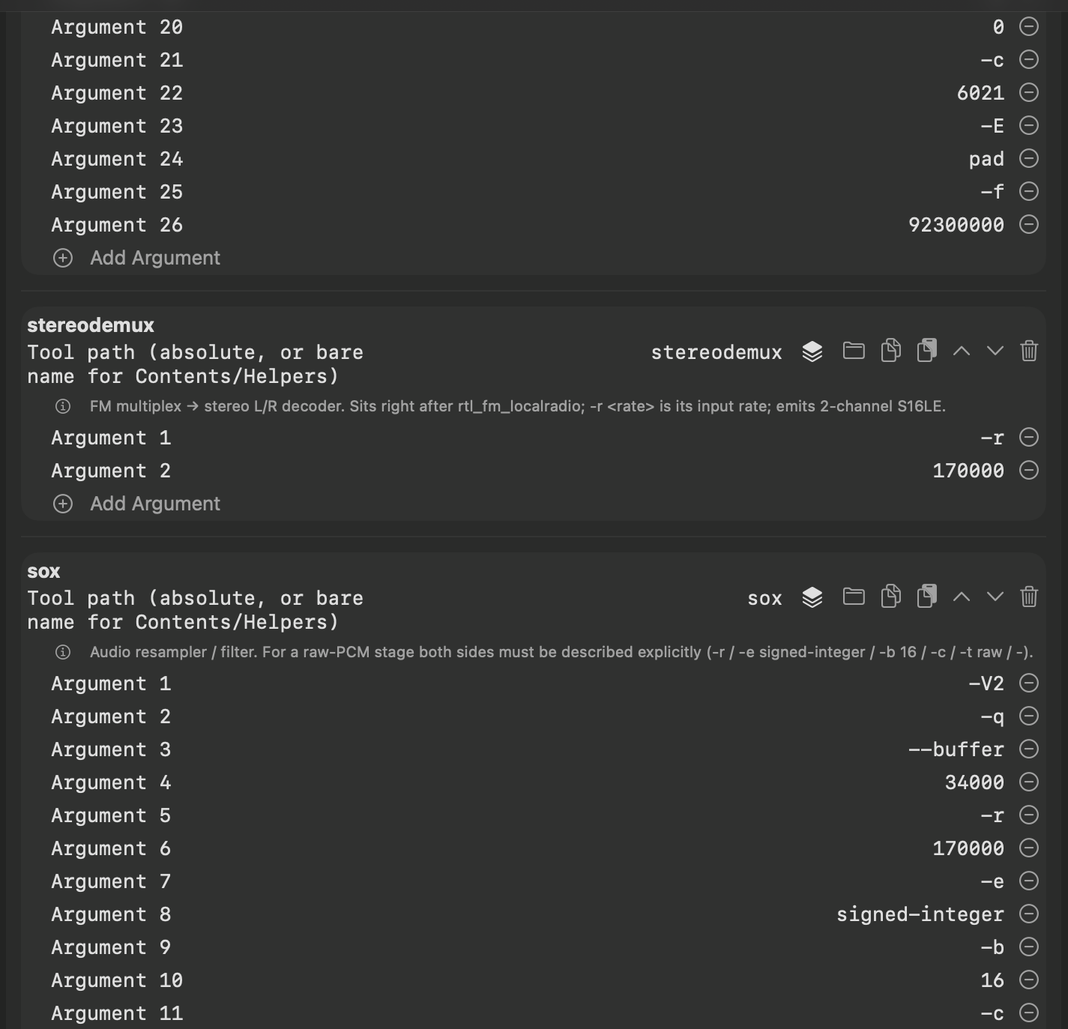
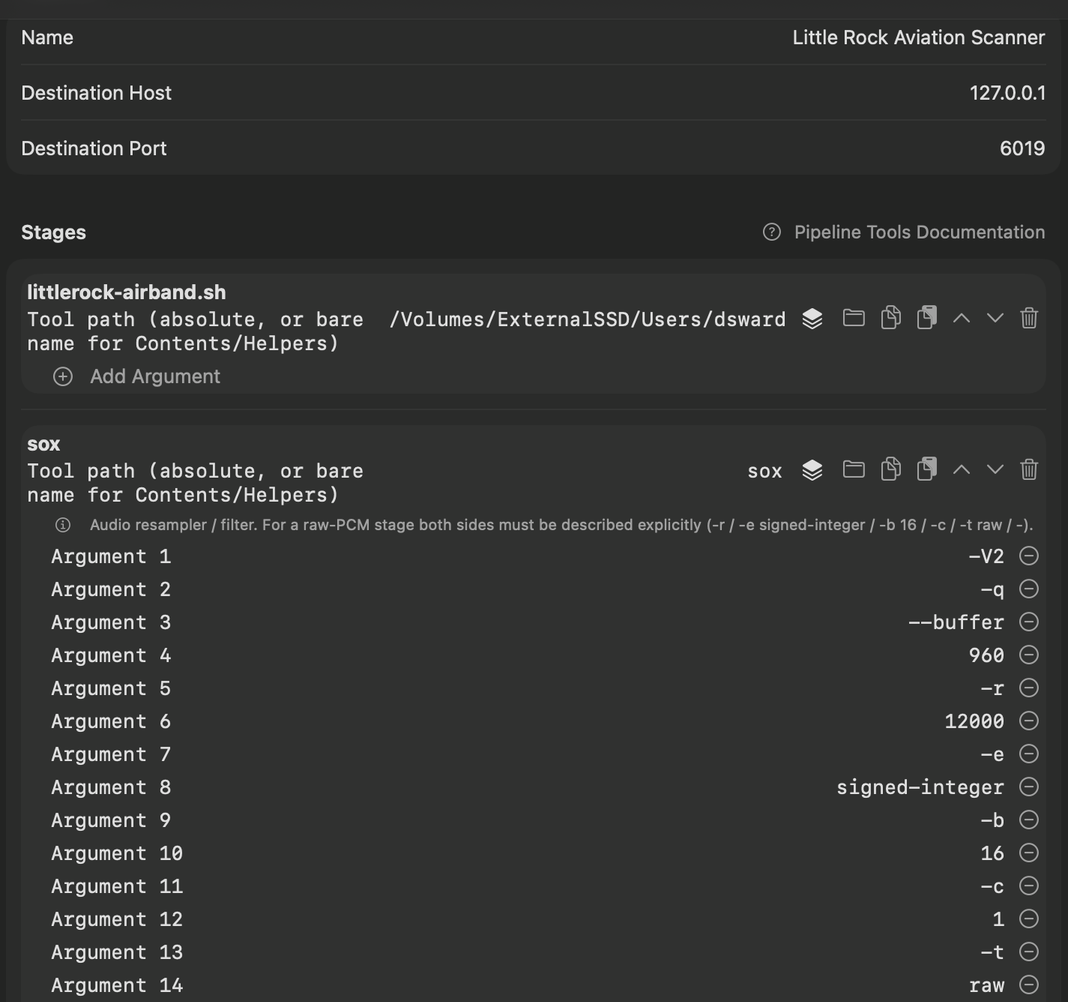
Shell-script project: airband example tested in ControlBooth; real pipeline screenshot

diff --git a/shell-script-source.html b/shell-script-source.html
@@ -59,7 +59,7 @@
       </p>
       <div class="grid">
         <div class="card"><h3>Your script</h3><p>Starts <code>rtl_fm</code> with your frequencies, gain and squelch, and prints 16-bit PCM audio on stdout. Everything else it says goes to stderr.</p></div>
-        <div class="card"><h3>sox</h3><p>Turns the script&rsquo;s mono audio into the 48&nbsp;kHz, 2-channel, 16-bit format the receiving end requires. ControlBooth doesn&rsquo;t convert for you.</p></div>
+        <div class="card"><h3>sox</h3><p>Turns the script&rsquo;s 12&nbsp;kHz mono audio into the 48&nbsp;kHz, 2-channel, 16-bit format the receiving end requires. ControlBooth doesn&rsquo;t convert for you.</p></div>
         <div class="card"><h3>PCMUDPSender</h3><p>Added automatically by ControlBooth. It sends the audio to AntennaHead (port 6019 by default), which streams it to listeners.</p></div>
       </div>
       <p class="note">
@@ -75,48 +75,53 @@
     <div class="wrap">
       <h2>Step 1: Write the script</h2>
       <p class="sub">
-        This one scans the seven NOAA Weather Radio channels
-        with a squelch, so it only produces sound when something is being
-        transmitted. Save it as, for example,
-        <code>~/bin/scan.sh</code>, and change the frequencies to the ones
-        you want.
+        This one scans five Little Rock Adams Field (KLIT) airband channels: tower, clearance delivery, approach/departure and ground
+        with a squelch, so it only produces sound when someone is
+        transmitting. Save it as, for example,
+        <code>~/bin/airband-scan.sh</code>, and change the frequencies to the ones
+        for your own airport.
       </p>
 <pre><code>#!/usr/bin/env bash
-# Squelched rtl_fm frequency scan. PCM16LE, 48 kHz, mono on stdout.
-# Messages go to stderr, because stdout is the audio.
+# Squelched rtl_fm airband (AM) scan of Little Rock Adams Field. PCM16LE, 12 kHz,
+# mono on stdout (a sox stage resamples it to 48 kHz stereo). Messages go to
+# stderr, because stdout is the audio.
 set -euo pipefail
 
 # ControlBooth is a GUI app, so it starts scripts with a short PATH.
 export PATH="/opt/local/bin:/opt/homebrew/bin:/usr/local/bin:$PATH"
 
-DEVICE=${DEVICE:-0}          # RTL-SDR index (see rtl_test)
-GAIN=${GAIN:-40}             # tuner gain in dB
-SQUELCH=${1:-${SQUELCH:-30}} # first argument wins; raise it if it opens on noise
-STATUS_PORT=${STATUS_PORT:-6021}
-FREQS=(${FREQS:-162.400M 162.425M 162.450M 162.475M 162.500M 162.525M 162.550M})
+DEVICE=${DEVICE:-0}                # RTL-SDR index (see rtl_test)
+GAIN=${GAIN:-30}                   # tuner gain in dB
+MODE=${MODE:-am}                   # airband voice is AM
+SQUELCH=${1:-${SQUELCH:-130}}      # first argument wins; raise it if it opens on noise
+STATUS_PORT=${STATUS_PORT:-6021}   # AntennaHead's Now Playing status port
+# Adams Field: Tower, Clearance Delivery, Approach/Departure, Ground, Approach/Departure
+FREQS=(${FREQS:-118.7M 118.95M 119.5M 121.9M 135.4M})
 
 RTL_FM=/Applications/ControlBooth.app/Contents/Helpers/rtl_fm_localradio
 
 ARGS=()
 for f in "${FREQS[@]}"; do ARGS+=(-f "$f"); done
 
-echo "Scanning ${FREQS[*]} on device $DEVICE, squelch $SQUELCH" >&2
+echo "Scanning ${FREQS[*]} on device $DEVICE, squelch $SQUELCH" &gt;&amp;2
 
 exec "$RTL_FM" -d "$DEVICE" "${ARGS[@]}" \
-     -M fm -s 12k -r 48k -E pad \
-     -g "$GAIN" -l "$SQUELCH" -c "$STATUS_PORT" -</code></pre>
+     -M "$MODE" -s 12k -E pad \
+     -g "$GAIN" -l "$SQUELCH" -c "$STATUS_PORT" -
+</code></pre>
       <p class="sub">Then make it executable:</p>
-<pre><code>chmod +x ~/bin/scan.sh</code></pre>
+<pre><code>chmod +x ~/bin/airband-scan.sh</code></pre>
       <div class="grid">
-        <div class="card"><h3>-f (repeat it)</h3><p>Each <code>-f</code> adds a frequency to the scan list. Use <code>-M am</code> instead of <code>-M fm</code> for AM signals such as airband.</p></div>
+        <div class="card"><h3>-f (repeat it)</h3><p>Each <code>-f</code> adds a frequency to the scan list. Use <code>MODE=fm</code> for FM channels such as NOAA Weather Radio (162.475&nbsp;MHz).</p></div>
         <div class="card"><h3>-l squelch</h3><p>The squelch level. Audio only comes out while the signal is stronger than this, which is what makes it a scanner.</p></div>
         <div class="card"><h3>-E pad</h3><p>While the squelch is closed, <code>rtl_fm</code> sends silence instead of nothing, so the pipeline keeps a steady flow of audio.</p></div>
         <div class="card"><h3>-c port</h3><p>Sends the current frequency and signal power to this UDP port. AntennaHead listens on 6021 by default, which is how Now Playing can show a live signal level beside the squelch.</p></div>
         <div class="card"><h3>-d device</h3><p>Which RTL-SDR to use, by index. With more than one radio plugged in, look up the one you want and pass its index.</p></div>
+        <div class="card"><h3>No -r here</h3><p><code>rtl_fm</code> has an <code>-r</code> option to resample its output, but in testing <code>rtl_fm_localradio</code> produced only silence with it at these narrow-band rates. The <code>sox</code> stage does the resampling instead.</p></div>
         <div class="card"><h3>The trailing -</h3><p>Tells <code>rtl_fm</code> to write the audio to stdout, where the next pipeline stage picks it up.</p></div>
       </div>
       <p class="note">
-        Test it in Terminal first: <code>~/bin/scan.sh | ffplay -f s16le -ar 48000 -ac 1 -nodisp -</code>
+        Test it in Terminal first: <code>~/bin/airband-scan.sh | ffplay -f s16le -ar 12000 -ac 1 -nodisp -</code>
         (ffplay comes with ffmpeg; any player that reads raw audio will do). If you can hear it there, it will work as a pipeline stage.
         If you can&rsquo;t, the error messages in Terminal will tell you why.
       </p>
@@ -134,17 +139,17 @@ exec "$RTL_FM" -d "$DEVICE" "${ARGS[@]}" \
       <table class="stages">
         <tr><th>Stage</th><th>Tool</th><th>Arguments (one per row)</th></tr>
         <tr><td>1</td><td><code>/Users/you/bin/scan.sh</code><br>(the full path to your script)</td><td>optional: a squelch level such as <code>30</code></td></tr>
-        <tr><td>2</td><td><code>sox</code></td><td><code>-t</code>, <code>raw</code>, <code>-r</code>, <code>48000</code>, <code>-e</code>, <code>signed-integer</code>, <code>-b</code>, <code>16</code>, <code>-c</code>, <code>1</code>, <code>-</code>,<br><code>-t</code>, <code>raw</code>, <code>-r</code>, <code>48000</code>, <code>-e</code>, <code>signed-integer</code>, <code>-b</code>, <code>16</code>, <code>-c</code>, <code>2</code>, <code>-</code></td></tr>
+        <tr><td>2</td><td><code>sox</code></td><td><code>-V2</code>, <code>-q</code>, <code>--buffer</code>, <code>960</code>,<br><code>-r</code>, <code>12000</code>, <code>-e</code>, <code>signed-integer</code>, <code>-b</code>, <code>16</code>, <code>-c</code>, <code>1</code>, <code>-t</code>, <code>raw</code>, <code>-</code>,<br><code>-r</code>, <code>48000</code>, <code>-e</code>, <code>signed-integer</code>, <code>-b</code>, <code>16</code>, <code>-c</code>, <code>2</code>, <code>-t</code>, <code>raw</code>, <code>-</code></td></tr>
         <tr><td>3</td><td><code>PCMUDPSender</code></td><td>added by ControlBooth; you don&rsquo;t add it</td></tr>
       </table>
       <figure class="shot">
-        <img src="assets/img/controlbooth-pipeline-editor.png" width="1068" height="1029" alt="ControlBooth's pipeline editor, scrolled to the end of a wide-band FM pipeline. The last rows of the rtl_fm_localradio stage show -c 6021, -E pad and -f 92300000. Below it are a stereodemux stage with -r 170000 and a sox stage with its arguments listed one per row.">
-        <figcaption>The pipeline editor, showing one of ControlBooth&rsquo;s wide-band FM pipelines (KIPR-FM 92.3). At the top are the last arguments of the <code>rtl_fm_localradio</code> stage, including the same <code>-c</code>, <code>-E pad</code> and <code>-f</code> options the script above uses. Below it come <code>stereodemux</code> and <code>sox</code>, each with one argument per row. In your own pipeline, the script takes the place of the first stage.</figcaption>
+        <img src="assets/img/controlbooth-pipeline-editor.png" width="1068" height="1002" alt="ControlBooth's pipeline editor showing a pipeline named Little Rock Aviation Scanner, with Destination Host 127.0.0.1 and Destination Port 6019. Stage one is the shell script littlerock-airband.sh, given by its full path, with no arguments. Stage two is sox, with its arguments listed one per row: -V2, -q, --buffer 960, -r 12000, -e signed-integer, -b 16, -c 1, -t raw.">
+        <figcaption>The pipeline editor, showing this project&rsquo;s pipeline. Stage one is the shell script, given by its full path. Stage two is <code>sox</code>, with one argument per row. ControlBooth adds the final <code>PCMUDPSender</code> stage itself, so it isn&rsquo;t listed.</figcaption>
       </figure>
       <p class="sub">
         The first group of <code>sox</code> arguments describes what comes
-        in (mono), and the second what goes out (stereo). Both are 48&nbsp;kHz,
-        16-bit signed raw audio.
+        in (12&nbsp;kHz mono), and the second what goes out (48&nbsp;kHz
+        stereo). Both are 16-bit signed raw audio.
       </p>
       <p class="note">
         A stage that isn&rsquo;t one of ControlBooth&rsquo;s bundled tools needs its
@@ -160,7 +165,7 @@ exec "$RTL_FM" -d "$DEVICE" "${ARGS[@]}" \
       <h2>Step 3: Play it and set the squelch</h2>
       <div class="grid">
         <div class="card"><h3>1. Press Play</h3><p>Start the pipeline in ControlBooth. AntennaHead&rsquo;s Now Playing page shows it, and you can listen from the web player or any AntennaHead app.</p></div>
-        <div class="card"><h3>2. Watch the levels</h3><p>On Now Playing, compare the signal level in the quiet moments with the level while someone is talking. This is the same method as in the <a href="projects.html#airport">airport scanner project</a>.</p></div>
+        <div class="card"><h3>2. Watch the levels</h3><p>On Now Playing, compare the signal level in the quiet moments with the level while someone is talking. On the author&rsquo;s setup, with a gain of 30, the quiet level was about 90&ndash;120, so the script starts at a squelch of 130. This is the same method as in the <a href="projects.html#airport">airport scanner project</a>.</p></div>
         <div class="card"><h3>3. Change SQUELCH</h3><p>Put a new number in the script stage&rsquo;s argument row (see the note below), stop the pipeline, and start it again.</p></div>
       </div>
       <p class="note">
